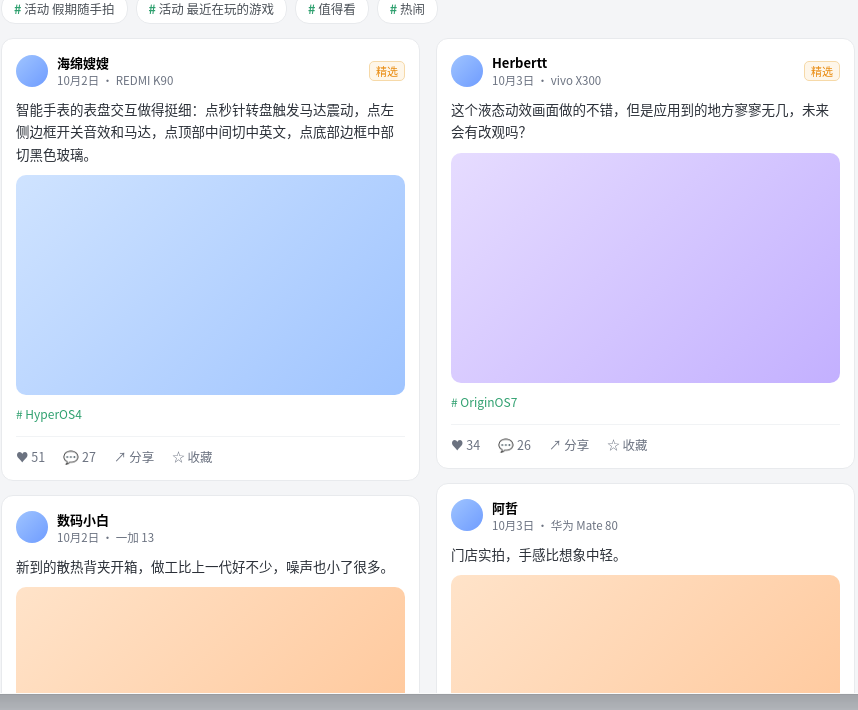
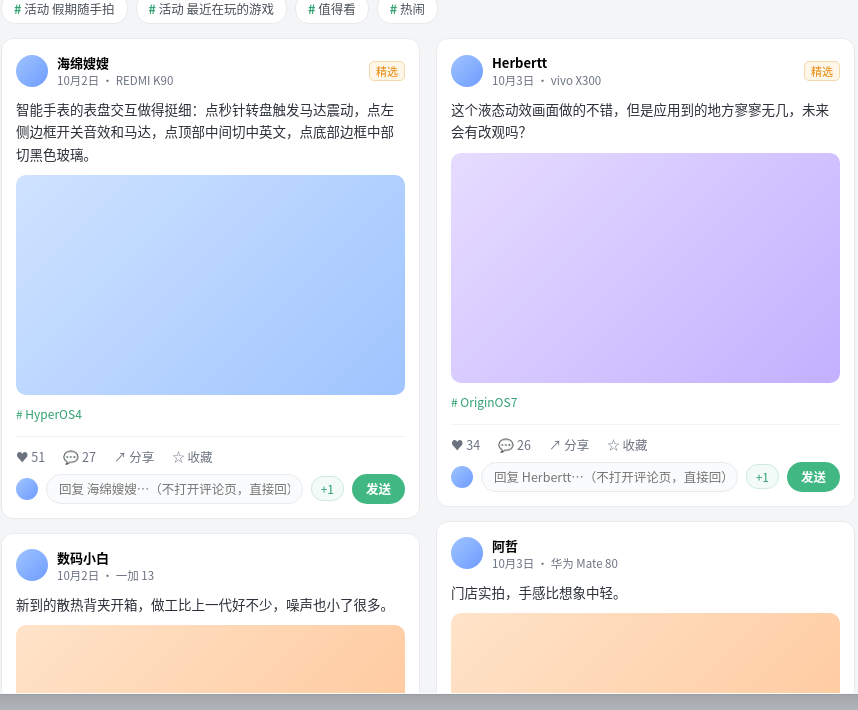
界面稿：右栏新增「我关注的话题」，每条动态下方新增「快捷回复」（不打开评论页即可回复）

diff --git a/prototype/home.html b/prototype/home.html
@@ -122,6 +122,18 @@
   .card .acts { display:flex; gap:18px; margin-top:12px; padding-top:10px; border-top:1px solid #f1f3f5;
                 font-size:12.5px; color:var(--txt2); }
   .card .acts span:hover { color:var(--green-d); }
+  /* 快捷回复：不打开评论页就能直接回 */
+  .qreply { display:flex; align-items:center; gap:8px; margin-top:8px; }
+  .qreply .qa { width:22px; height:22px; border-radius:50%; flex:0 0 22px;
+                background:linear-gradient(135deg,#9fc4ff,#6f9cff); }
+  .qreply .qi { flex:1; min-width:0; height:30px; border:1px solid var(--line); border-radius:15px;
+                padding:0 12px; font-size:12.5px; background:#fafbfc; color:#2b3038;
+                outline:none; font-family:inherit; }
+  .qreply .qi:focus { border-color:var(--green); background:#fff; }
+  .qreply .qs { height:30px; padding:0 14px; border:0; border-radius:15px; background:var(--green);
+                color:#fff; font-size:12.5px; font-weight:600; cursor:pointer; font-family:inherit; }
+  .qreply .qk { font-size:12px; color:var(--green-d); border:1px solid #cfeade; background:#f2fbf7;
+                border-radius:12px; padding:3px 9px; cursor:pointer; white-space:nowrap; }
 
   /* ============ 右侧栏（可隐藏） ============ */
   .right { width:312px; flex:0 0 312px; overflow-y:auto; background:#f7f8fa;
@@ -236,6 +248,14 @@
           <div class="hot"><i>6</i>酷安优惠券</div>
         </div>
         <div class="panel">
+          <h3>我关注的话题</h3>
+          <div class="hot"><i>#</i>数码日常<span class="n">新 12</span></div>
+          <div class="hot"><i>#</i>假期随手拍<span class="n">新 3</span></div>
+          <div class="hot"><i>#</i>充电头兴趣小组<span class="n">新 1</span></div>
+          <div class="hot"><i>#</i>EDC<span class="n">—</span></div>
+          <div class="hot" style="color:#9aa1ab;font-size:12px"><i>+</i>管理我关注的话题</div>
+        </div>
+        <div class="panel">
           <h3>热门话题</h3>
           <div class="hot"><i>#</i>最近在玩的游戏<span class="n">4.7万</span></div>
           <div class="hot"><i>#</i>假期随手拍<span class="n">25.6万</span></div>
@@ -282,6 +302,12 @@ function card(d){
       ${d.fav?'<span class="fav">精选</span>':''}</div>
     <p>${d.t}</p>${imgs}<div class="tag">${d.tag}</div>
     <div class="acts"><span>♥ ${d.z}</span><span>💬 ${d.c}</span><span>↗ 分享</span><span>☆ 收藏</span></div>
+    <div class="qreply">
+      <div class="qa"></div>
+      <input class="qi" placeholder="回复 ${d.n}…（不打开评论页，直接回）">
+      <span class="qk">+1</span>
+      <button class="qs">发送</button>
+    </div>
   </div>`;
 }
 document.getElementById('feedA').innerHTML = A.map(card).join('');
